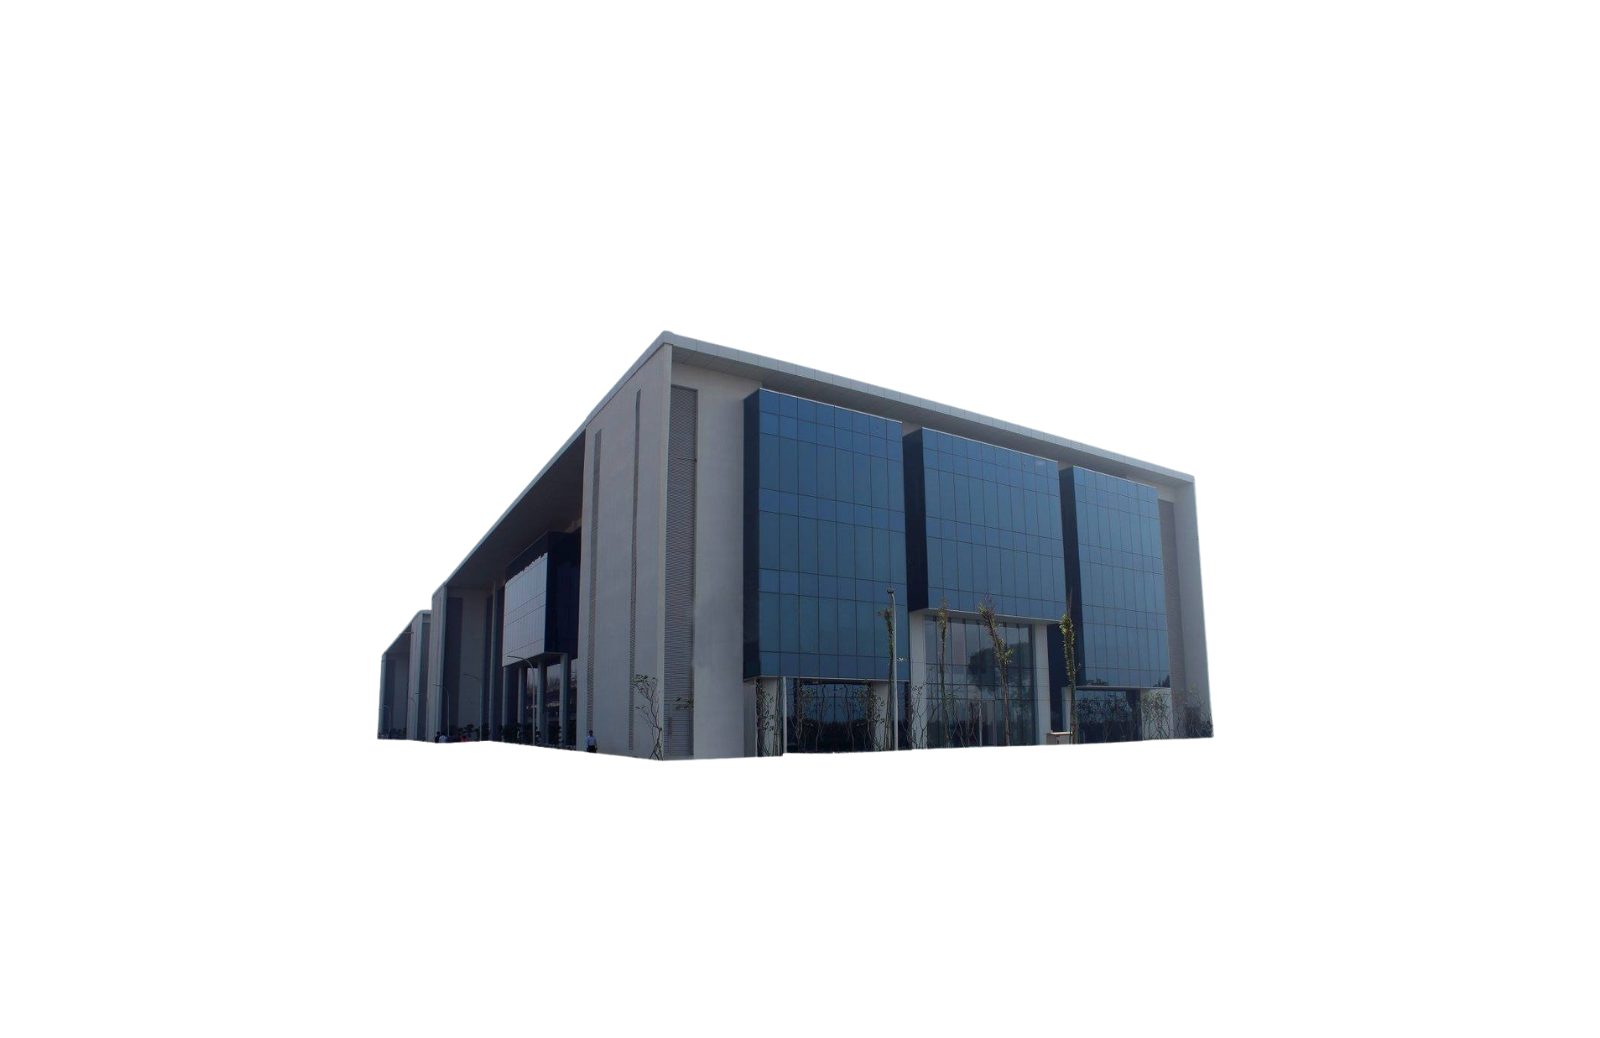
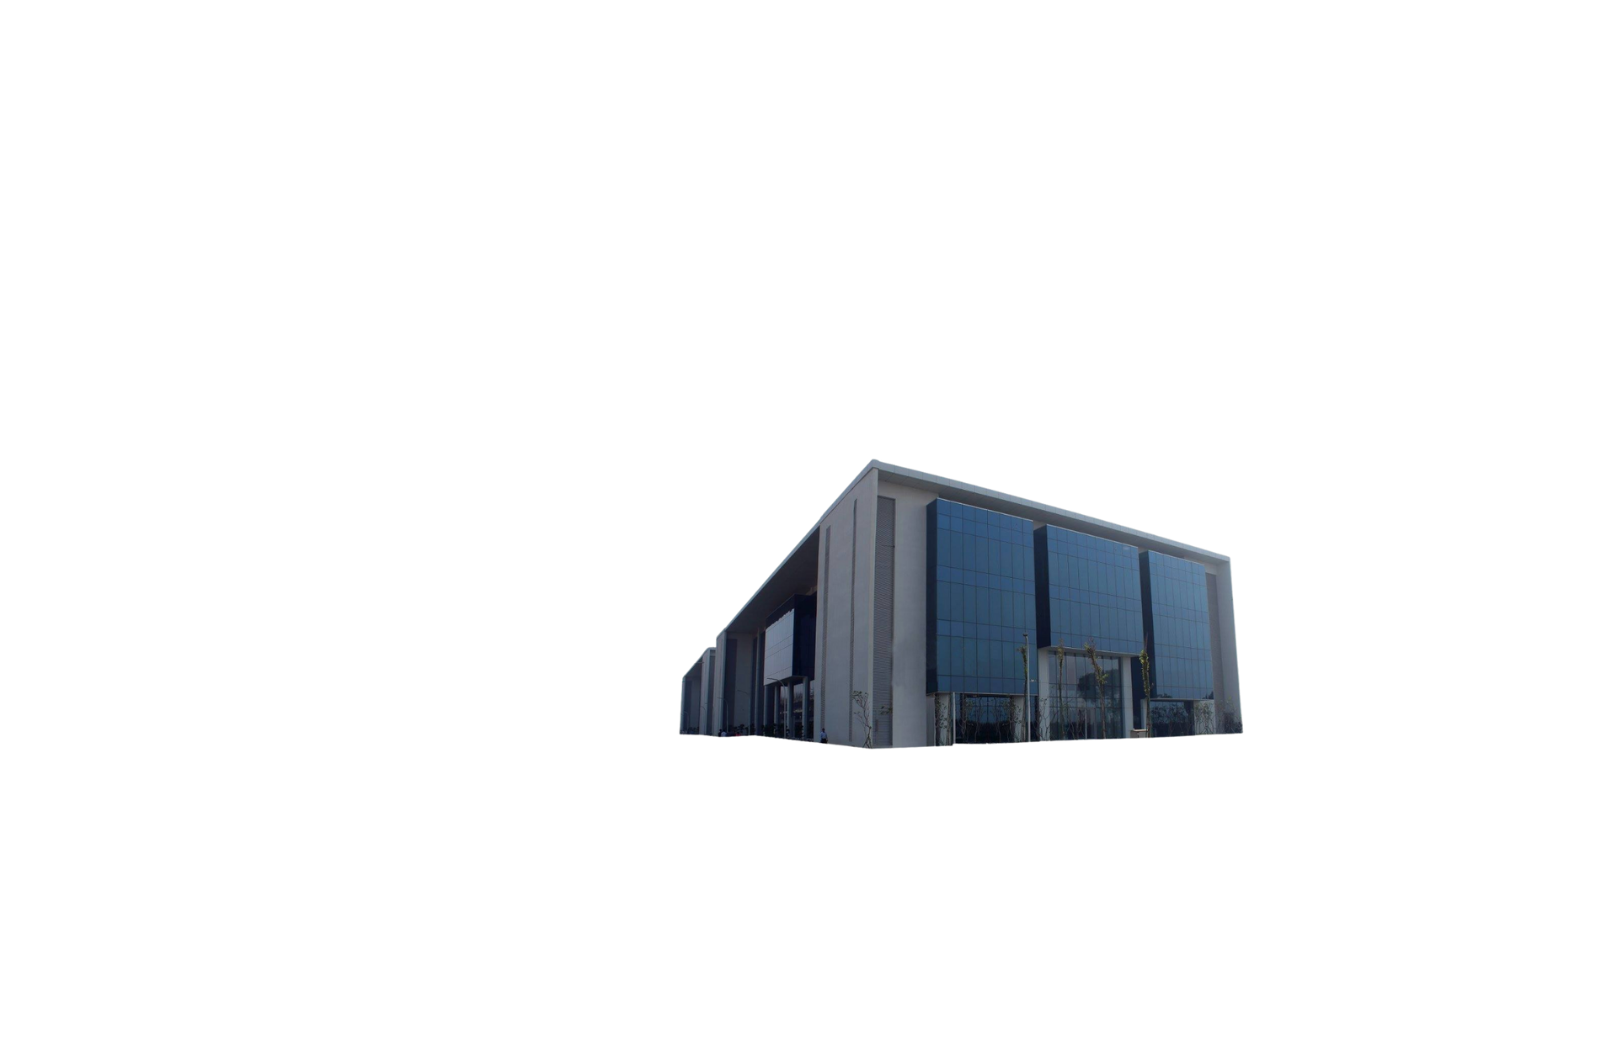
..

Changed region(s): [[0.2188, 0.3083, 0.7812, 0.7399]]

diff --git a/lib/main.dart b/lib/main.dart
@@ -75,6 +75,77 @@ class _MyHomePageState extends State<MyHomePage> {
             ParallaxWidget(top: rateFive, asset: "parallax1"),
             ParallaxWidget(top: rateSeven, asset: "parallax3"),
             ParallaxWidget(top: rateOne, asset: "parallax5"),
+            Positioned(
+              top: 100,
+              left: 50,
+              child: Text("Project Gallery\nFor Bennett University",
+                  style: GoogleFonts.nunito(
+                      fontSize: MediaQuery.of(context).size.height / 25,
+                      fontWeight: FontWeight.w700)),
+            ),
+            Positioned(
+              top: 200,
+              left: 50,
+              child: Text("Lorem ipsum dolor sit amet consectetur adipisicing elit. Maxime mollitia,\nmolestiae quas vel sint commodi repudiandae consequuntur\nvoluptatum laborum numquam blanditiis",
+                  textAlign: TextAlign.left,
+                  style: GoogleFonts.nunito(
+                      fontSize: MediaQuery.of(context).size.height / 45,
+                      fontWeight: FontWeight.w400)),
+            ),
+            Positioned(
+              top: 300,
+              left: 50,
+              child: Row(
+                mainAxisAlignment: MainAxisAlignment.center,
+                children: [
+                  TextButton(
+                    onPressed: () {},
+                    style: TextButton.styleFrom(
+                      shape: RoundedRectangleBorder(
+                        borderRadius: BorderRadius.circular(40.0),
+                      ),
+                      backgroundColor: Colors.white,
+                      primary: Colors.black87,
+                      padding: EdgeInsets.all(0.0),
+                    ),
+                    child: Container(
+                      padding: EdgeInsets.symmetric(
+                          horizontal: 30, vertical: 8),
+                      child: Text(
+                        "Start Now",
+                        style: GoogleFonts.nunito(
+                            fontSize: MediaQuery.of(context).size.height / 52, fontWeight: FontWeight.w800),
+                      ),
+                    ),
+                  ),
+                  SizedBox(
+                    width: 20,
+                  ),
+                  TextButton(
+                    onPressed: () {},
+                    style: TextButton.styleFrom(
+                      shape: RoundedRectangleBorder(
+                          borderRadius: BorderRadius.circular(40.0),
+                          side: BorderSide(color: Colors.white)),
+                      backgroundColor: Colors.transparent,
+                      primary: Colors.black87,
+                      padding: EdgeInsets.all(0.0),
+                    ),
+                    child: Container(
+                      padding: EdgeInsets.symmetric(
+                          horizontal: 30, vertical: 8),
+                      child: Text(
+                        "Start Now",
+                        style: GoogleFonts.nunito(
+                            color: Colors.white,
+                            fontSize: MediaQuery.of(context).size.height / 52,
+                            fontWeight: FontWeight.w800),
+                      ),
+                    ),
+                  ),
+                ],
+              ),
+            ),
             ListView(
               children: <Widget>[
                 Container(
@@ -692,6 +763,7 @@ class ParallaxWidget extends StatelessWidget {
   Widget build(BuildContext context) {
     return Positioned(
       top: top,
+      right: 0,
       child: Container(
         color: Colors.transparent,
         height: MediaQuery.of(context).size.height,
